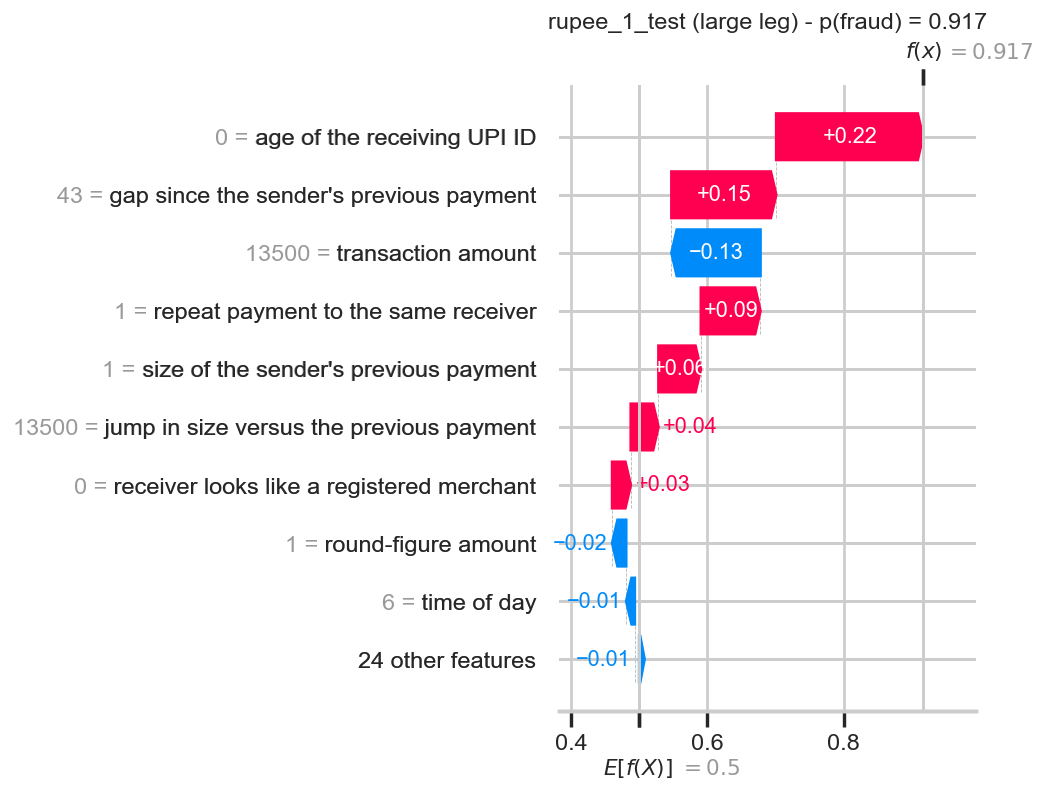
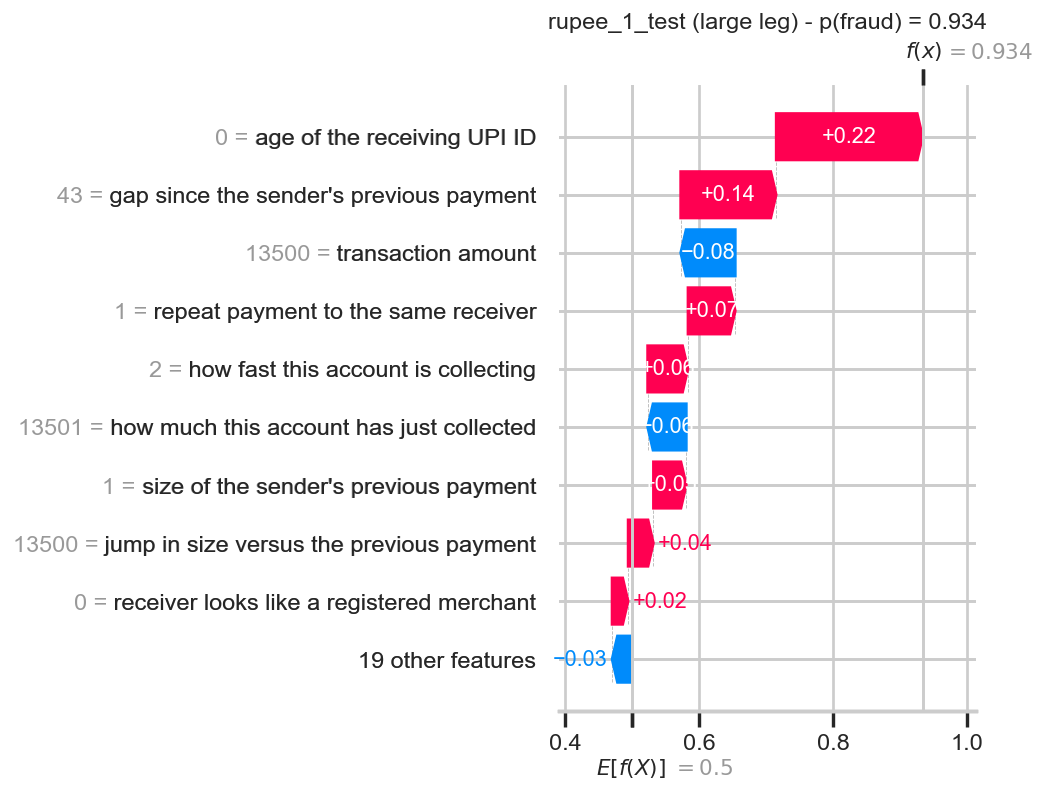
docs: record where the graph features fire, and where they do not
Claude-Session: https://claude.ai/code/session_01M4Jtp9w96X7jSx8r2562fq

diff --git a/explain_model.py b/explain_model.py
@@ -488,10 +488,16 @@ def main() -> None:
     ranked = global_explanations(explainer, transformed, names)
 
     say.rule("GLOBAL DRIVERS (mean |SHAP| per concept)")
-    say(f"  {'Concept':<46}{'Mean |SHAP|':>13}   Direction")
-    say("  " + "-" * 82)
+    # Width driven by the data rather than a guessed constant. The graph concepts are
+    # long by design - "how many different people have just paid this account" is a
+    # sentence, because that is what makes the ranking readable by someone who has
+    # never heard of SHAP - and a fixed 46 columns silently broke the alignment the
+    # moment they were added.
+    width = max(46, max(len(c) for c in ranked["concept"].head(14)) + 2)
+    say(f"  {'Concept':<{width}}{'Mean |SHAP|':>13}   Direction")
+    say("  " + "-" * (width + 36))
     for _, r in ranked.head(14).iterrows():
-        say(f"  {r['concept']:<46}{r['mean_abs_shap']:>13.4f}   {r['direction']}")
+        say(f"  {r['concept']:<{width}}{r['mean_abs_shap']:>13.4f}   {r['direction']}")
 
     # ---------------- Per scam signature ---------------- #
     meta = df.loc[sample_idx, ["fraud_pattern", "amount", "is_fraud"]].copy()

diff --git a/README.md b/README.md
@@ -814,6 +814,35 @@ The first payment genuinely looks ordinary, and the sign flips as the ring assem
 The model is not being shown the future; it is watching the star form. The **Ring
 graph** view in the dashboard replays exactly this, transfer by transfer.
 
+## The check that matters: are they used only where they should be?
+
+A feature that improves the headline by firing everywhere has not learned the scam, it
+has learned a shortcut. Module 3's per-signature attribution answers this directly, and
+the graph features appear for exactly one pattern:
+
+```
+new_vpa_velocity            +0.2356  age of the receiving UPI ID
+                            +0.1189  transaction amount
+                            +0.0480  how fast this account is collecting     <-
+                            +0.0352  how much this account has just collected <-
+
+odd_hour_phishing           +0.1556  transaction amount
+                            +0.1086  time of day
+                            +0.0799  age of the receiving UPI ID
+                            +0.0716  sent between 1 AM and 4 AM
+
+rupee_1_test (large leg)    +0.1595  age of the receiving UPI ID
+```
+
+The mule ring is now caught partly on ring structure. The odd-hour drain and the ₹1
+test are not — because they are not rings, and a fan-in feature that fired on them
+would be evidence the model had found a correlation rather than a mechanism.
+
+Globally, collection volume ranks **third of fourteen concepts** while fan-in ranks
+last: most traffic has a fan-in of one, so the flag is silent until it is not. That is
+the correct shape for a signal that identifies 85 rows out of 100,000 at 42% precision
+against a 0.5% base rate.
+
 Serving this needed a second history index. `TransactionHistory` keys by payer *and*
 payee — the lag features want "what did this sender do last", the graph features want
 "who else has paid this receiver". Indexing one side only is not a partial answer but
